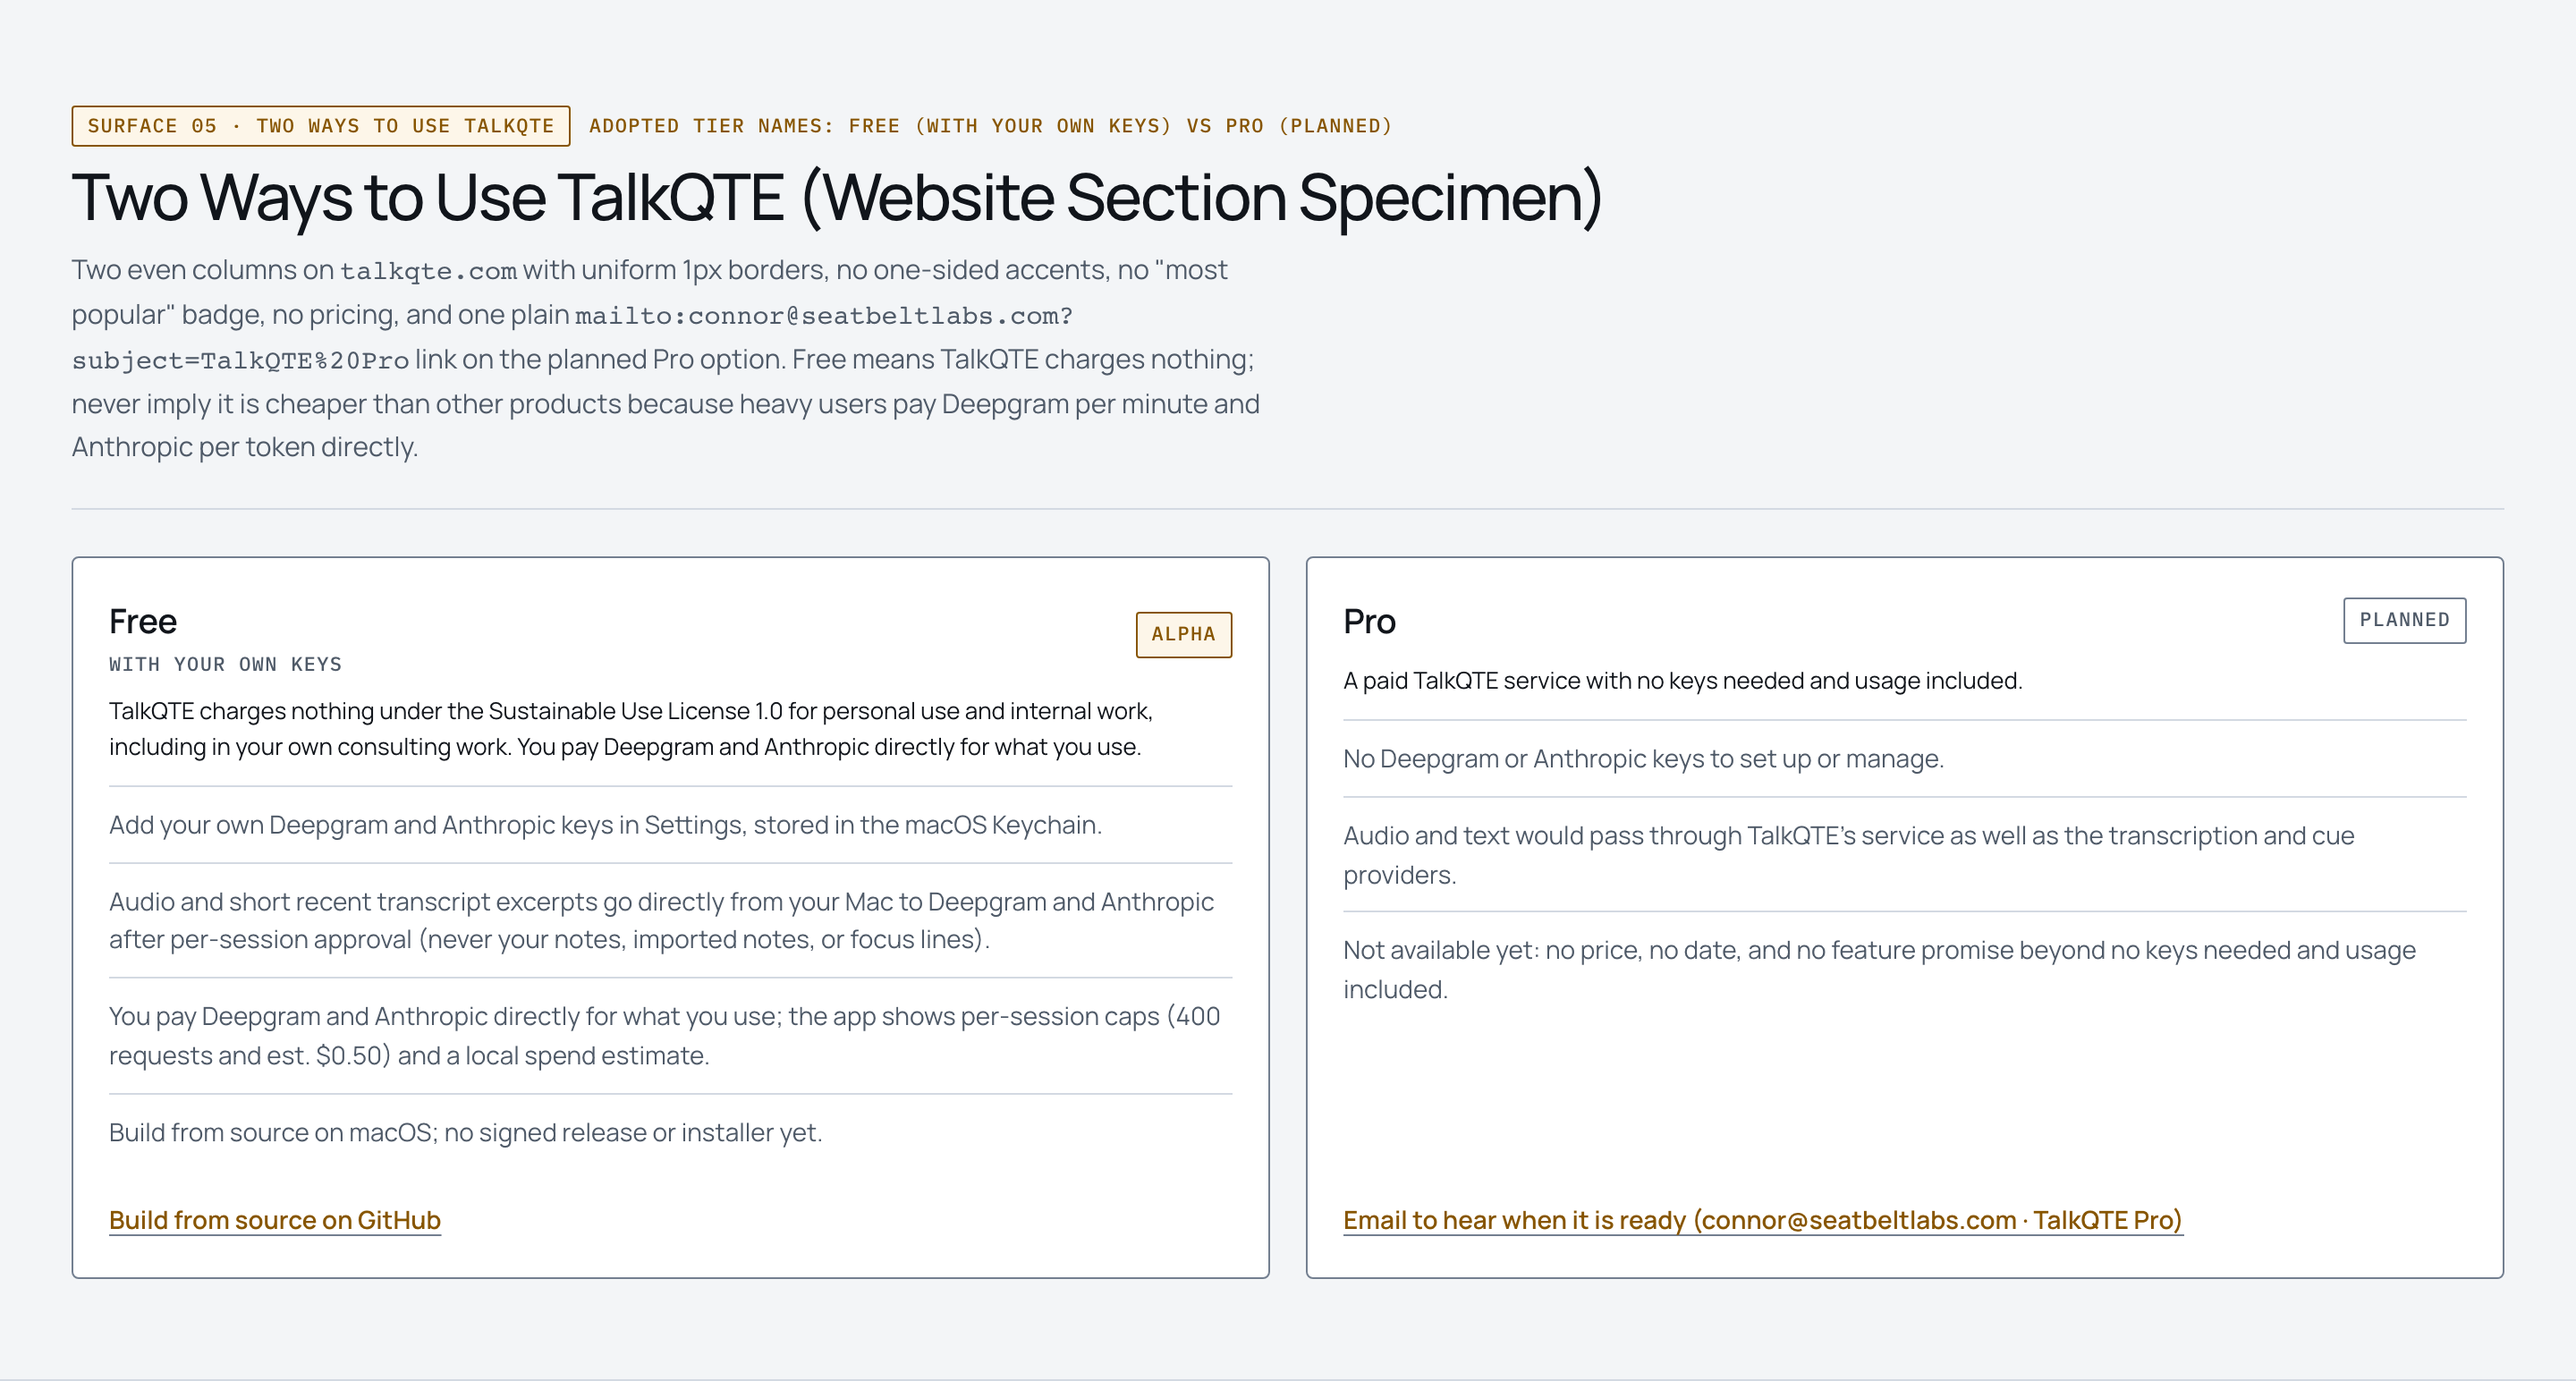
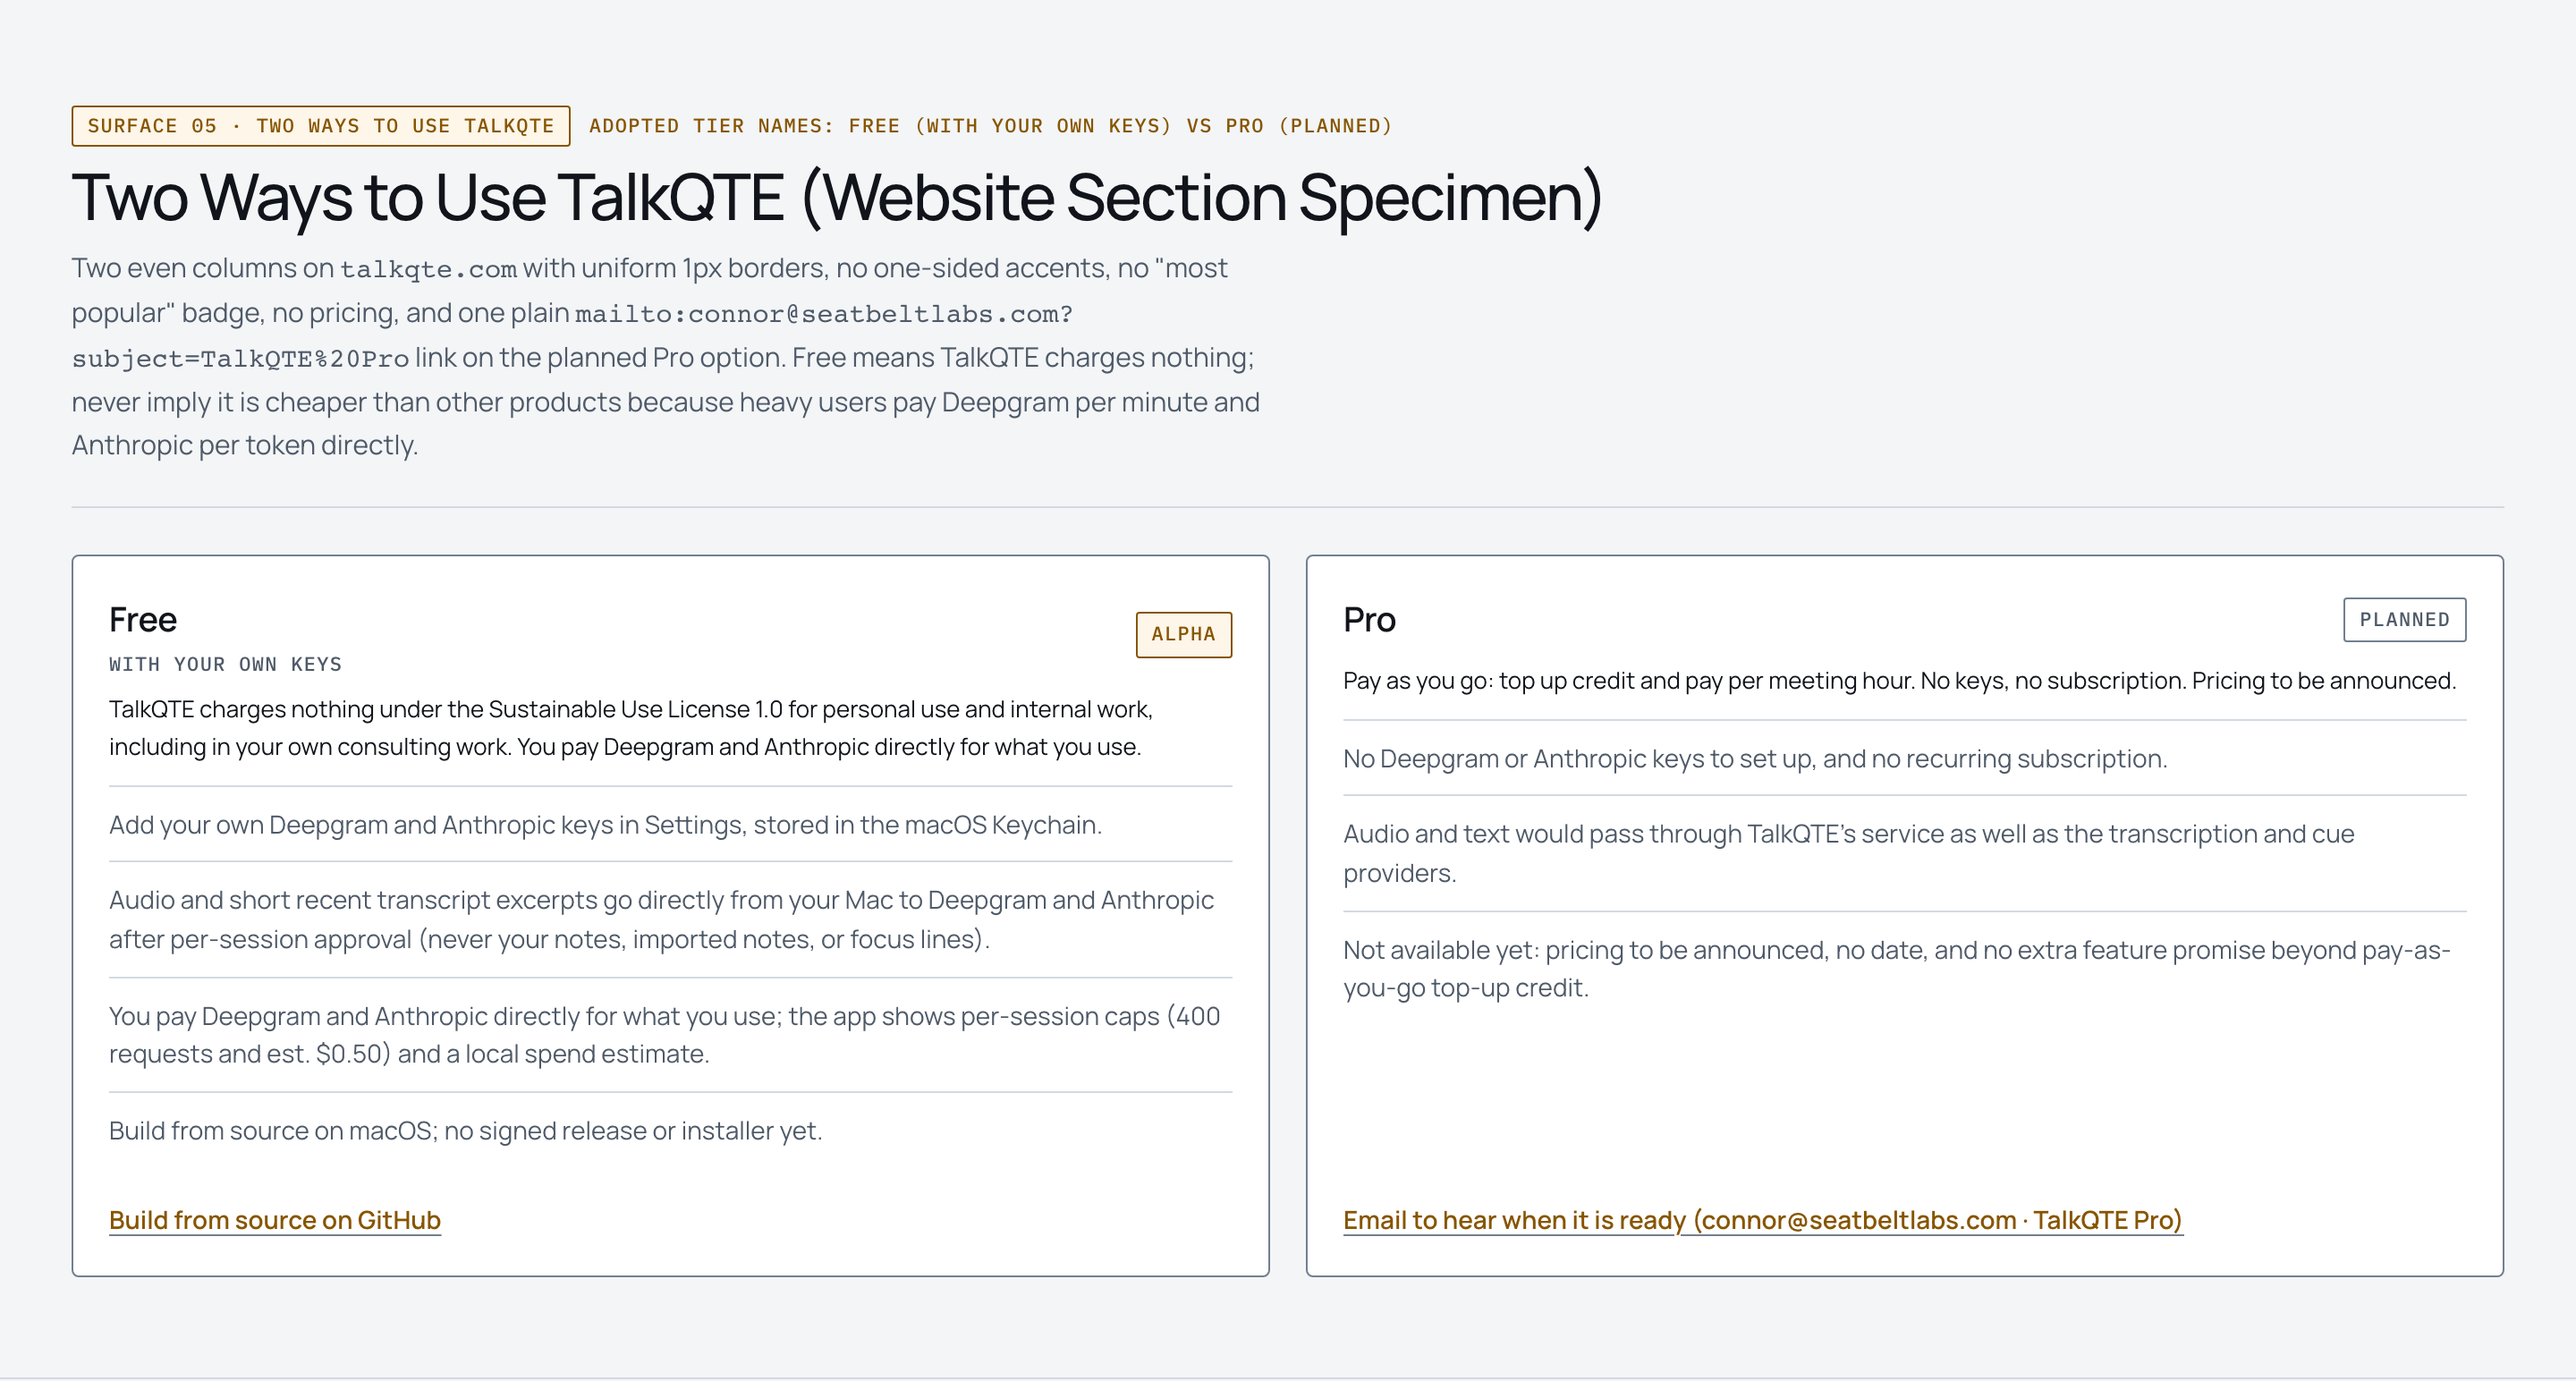
docs(brand): describe Pro as pay as you go

diff --git a/docs/brand/index.html b/docs/brand/index.html
@@ -3897,7 +3897,7 @@ Open items: sign-off window for contract text, draft handoff date.</pre>
                             <strong style="font-size: 14px; color: var(--g-muted)">Pro</strong>
                             <span class="sk-chip">Planned</span>
                           </div>
-                          <p class="panel-muted" style="margin-top: 6px; font-size: 12px">No keys needed and usage included; audio and text would pass through TalkQTE's service as well as the providers. Not available yet; not selectable.</p>
+                          <p class="panel-muted" style="margin-top: 6px; font-size: 12px">Pay as you go: top up credit and pay per meeting hour. No keys, no subscription. Audio and text would pass through TalkQTE's service as well as the providers. Pricing to be announced; not selectable.</p>
                         </div>
                       </div>
                     </div>
@@ -4488,12 +4488,12 @@ Date: 2026-11-23 · Length: 06:42
                 <span class="sk-chip">Planned</span>
               </div>
               <p class="panel-muted" style="margin-top: 8px; color: var(--g-ink)">
-                A paid TalkQTE service with no keys needed and usage included.
+                Pay as you go: top up credit and pay per meeting hour. No keys, no subscription. Pricing to be announced.
               </p>
               <ul class="tw-points">
-                <li>No Deepgram or Anthropic keys to set up or manage.</li>
+                <li>No Deepgram or Anthropic keys to set up, and no recurring subscription.</li>
                 <li>Audio and text would pass through TalkQTE's service as well as the transcription and cue providers.</li>
-                <li>Not available yet: no price, no date, and no feature promise beyond no keys needed and usage included.</li>
+                <li>Not available yet: pricing to be announced, no date, and no extra feature promise beyond pay-as-you-go top-up credit.</li>
               </ul>
               <span class="sm-text-link">Email to hear when it is ready (connor@seatbeltlabs.com · TalkQTE Pro)</span>
             </article>

diff --git a/docs/brand/BRAND_GUIDE.md b/docs/brand/BRAND_GUIDE.md
@@ -297,8 +297,8 @@ Designed for people who use TalkQTE on its own without a separate note-taker (su
 Used both as a two-column section on `talkqte.com` ([images/two-ways.png](images/two-ways.png), [2x](images/two-ways-2x.png)) and as the compact selector element on Onboarding Step 1 (adopted tier names, owner's choice):
 
 - **Free** (`with your own keys` as subtitle or supporting line; small `Alpha` chip, no acronym chip): TalkQTE charges nothing under the Sustainable Use License 1.0 for personal use and internal work (including in your own consulting work). Never say or imply Free is cheaper than other products: heavy users pay Deepgram per minute and Anthropic per token, so state plainly **"you pay Deepgram and Anthropic directly for what you use."** Audio and short recent transcript excerpts go directly from your Mac to Deepgram and Anthropic after per-session approval.
-- **Pro** (`Planned` chip): A planned paid TalkQTE service with no keys needed and usage included; audio and text would pass through TalkQTE's service as well as the transcription and cue providers. Not available yet: no price, no date, and no feature promise beyond no keys needed and usage included.
-- **Visual rules:** Two equal-width bordered columns on `talkqte.com`, uniform `1px solid --border` all round (no one-sided accents), no "most popular" badge, no pricing, and one plain `mailto:connor@seatbeltlabs.com?subject=TalkQTE%20Pro` link on `Pro` (no form, no third-party request). On Onboarding Step 1, `Free · with your own keys` is active and `Pro · Planned` is dimmed (`aria-disabled="true"`) and not selectable.
+- **Pro** (`Planned` chip): Pay as you go: top up credit and pay per meeting hour, with no keys and no subscription. Audio and text would pass through TalkQTE's service as well as the transcription and cue providers. Not available yet: pricing to be announced, no date, no free allowance, and no extra feature promise beyond pay-as-you-go managed keys and usage.
+- **Visual rules:** Two equal-width bordered columns on `talkqte.com`, uniform `1px solid --border` all round (no one-sided accents), no "most popular" badge, no currency amount or rate (at most `"Pricing to be announced"`), and one plain `mailto:connor@seatbeltlabs.com?subject=TalkQTE%20Pro` link on `Pro` (no form, no third-party request). On Onboarding Step 1, `Free · with your own keys` is active and `Pro · Planned` is dimmed (`aria-disabled="true"`) and not selectable.
 
 ---
 
